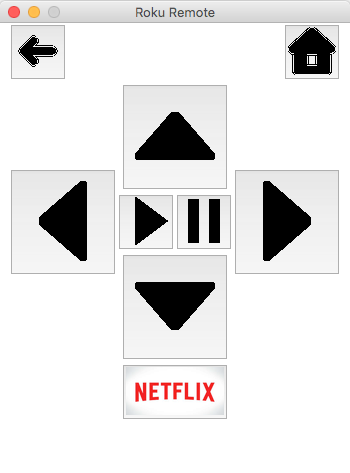
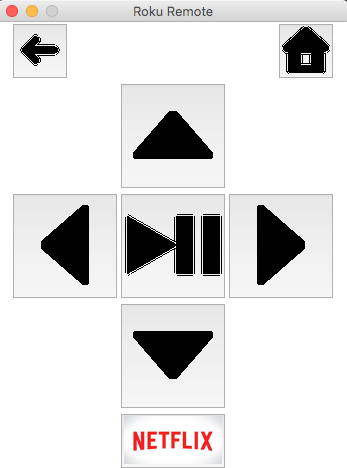
Update play/pause

diff --git a/rokuRemote.py b/rokuRemote.py
@@ -47,9 +47,6 @@ class Application(Frame):
     def select(self):
         roku.select()
 
-    def play(self):
-        roku.play()
-
     def netflix(self):
         netflix = roku['Netflix']
         netflix.launch()
@@ -73,13 +70,13 @@ class Application(Frame):
             Image.open('buttons/up_button.png'))
         self.down_button = ImageTk.PhotoImage(
             Image.open('buttons/down_button.png'))
-        self.play_button = ImageTk.PhotoImage(
-            Image.open('buttons/play_button.png'))
-        self.pause_button = ImageTk.PhotoImage(
-            Image.open('buttons/pause_button.png'))
         netflix_button = Image.open('buttons/netflix_button.jpeg')
         netflix_button = netflix_button.resize((100, 50), Image.ANTIALIAS)
         self.netflix_button = ImageTk.PhotoImage(netflix_button)
+        play_pause_button = Image.open('buttons/play_pause_button.png')
+        play_pause_button = play_pause_button.resize(
+            (100, 100), Image.ANTIALIAS)
+        self.play_pause_button = ImageTk.PhotoImage(play_pause_button)
 
         # create buttons
         self.HOME = Button(self)
@@ -105,9 +102,6 @@ class Application(Frame):
 
         self.SELECT = Button(self)
         self.SELECT['command'] = self.select
-
-        self.PAUSE = Button(self)
-        self.PAUSE['command'] = self.select
 
         # back button
         self.BACK.config(image=self.back_button, width='50', height='50')
@@ -138,13 +132,10 @@ class Application(Frame):
         self.DOWN.config(image=self.down_button, width='100', height='100')
         self.DOWN.pack(side='bottom', expand=True)
 
-        # play button
-        self.SELECT.config(image=self.play_button, width='50', height='50')
+        # select/play/pause button
+        self.SELECT.config(image=self.play_pause_button,
+                           width='100', height='100')
         self.SELECT.pack(side='left', expand=True)
-
-        # pause button
-        self.PAUSE.config(image=self.pause_button, width='50', height='50')
-        self.PAUSE.pack(side='right', expand=True)
 
     def __init__(self, master=None):
         Frame.__init__(self, master)
@@ -155,7 +146,7 @@ class Application(Frame):
 root = Tk()
 root.title('Roku Remote')
 root.geometry('350x450')
-root.resizable(False,False)
+root.resizable(False, False)
 app = Application(master=root)
 app.mainloop()
 try:
